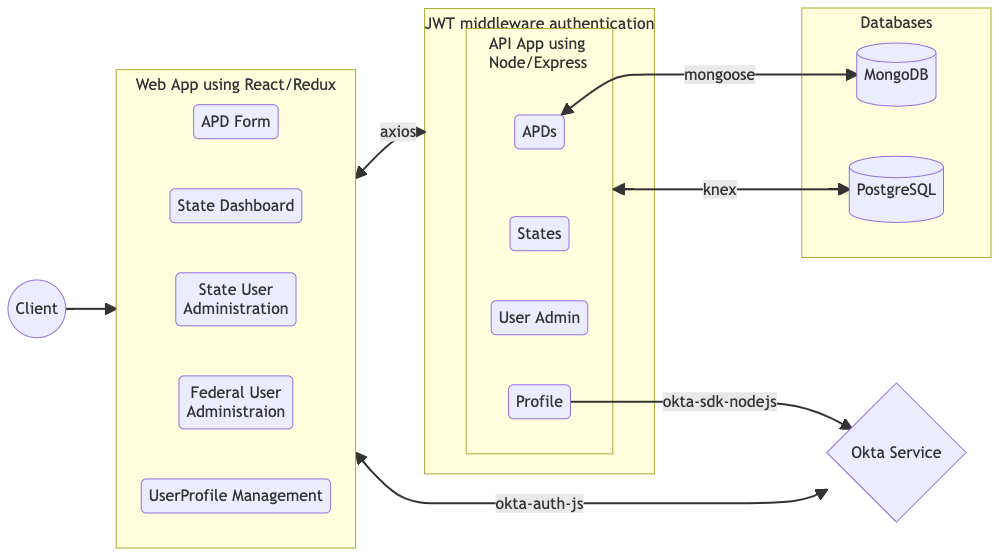
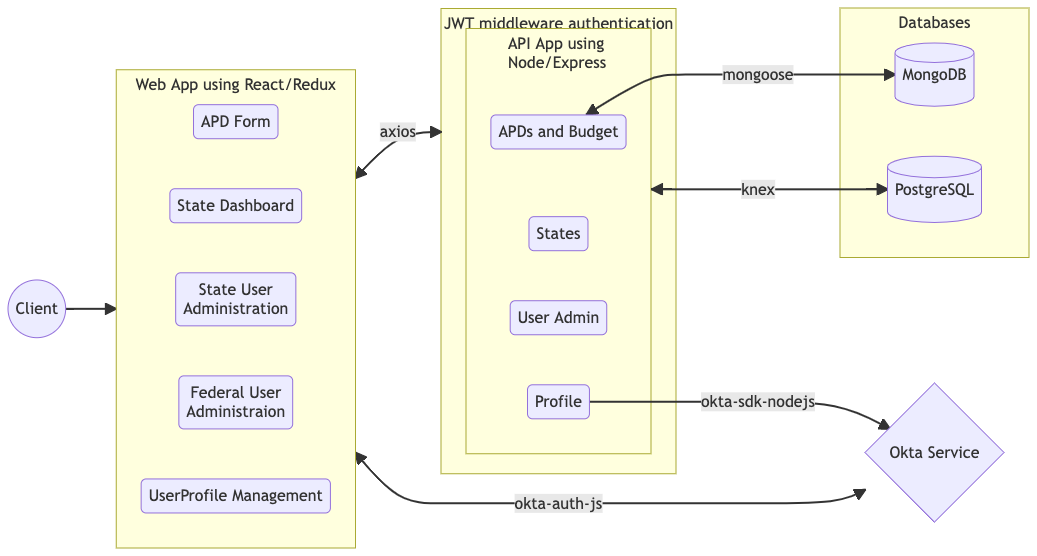
updated diagrams in documents; fixed issue with validation showing up in Estimated Expenditures

diff --git a/web/src/pages/apd/activities/cost-allocation/CostAllocateFFPQuarterly.js b/web/src/pages/apd/activities/cost-allocation/CostAllocateFFPQuarterly.js
@@ -58,7 +58,7 @@ const CostAllocateFFPQuarterly = ({
   });
 
   useEffect(() => {
-    if (adminCheck) {
+    if (adminCheck && !isViewOnly) {
       trigger();
     } else {
       clearErrors();
@@ -130,7 +130,7 @@ const CostAllocateFFPQuarterly = ({
         <tbody>
           <tr
             className={`${
-              errors?.formData?.subtotal?.inHouse?.percent
+              errors?.formData?.subtotal?.inHouse?.percent && !isViewOnly
                 ? 'table-error-border-no-bottom'
                 : ''
             }`}
@@ -173,7 +173,7 @@ const CostAllocateFFPQuarterly = ({
           </tr>
           <tr
             className={`${
-              errors?.formData?.subtotal?.inHouse?.percent
+              errors?.formData?.subtotal?.inHouse?.percent && !isViewOnly
                 ? 'table-error-border-no-top'
                 : ''
             }`}
@@ -192,7 +192,7 @@ const CostAllocateFFPQuarterly = ({
 
           <tr
             className={`${
-              errors?.formData?.subtotal?.contractors?.percent
+              errors?.formData?.subtotal?.contractors?.percent && !isViewOnly
                 ? 'table-error-border-no-bottom'
                 : ''
             }`}
@@ -235,7 +235,7 @@ const CostAllocateFFPQuarterly = ({
           </tr>
           <tr
             className={`${
-              errors?.formData?.subtotal?.contractors?.percent
+              errors?.formData?.subtotal?.contractors?.percent && !isViewOnly
                 ? 'table-error-border-no-top'
                 : ''
             }`}
@@ -277,7 +277,7 @@ const CostAllocateFFPQuarterly = ({
           </tr>
         </tbody>
       </table>
-      {errors && (
+      {errors && !isViewOnly && (
         <div
           className="ds-c-inline-error ds-c-field__error-message ds-u-fill--white ds-u-padding-top--1"
           role="alert"
